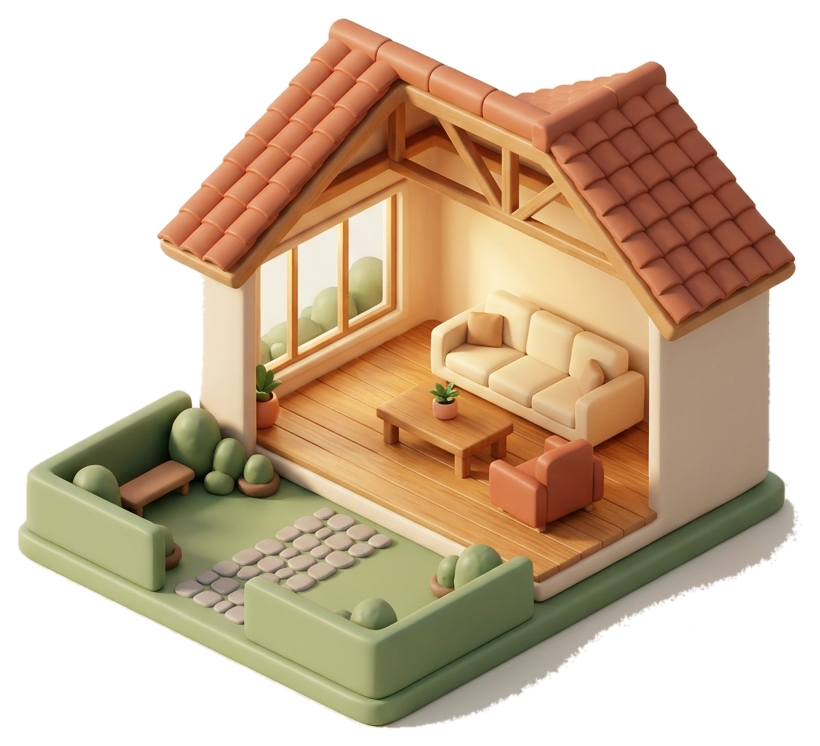
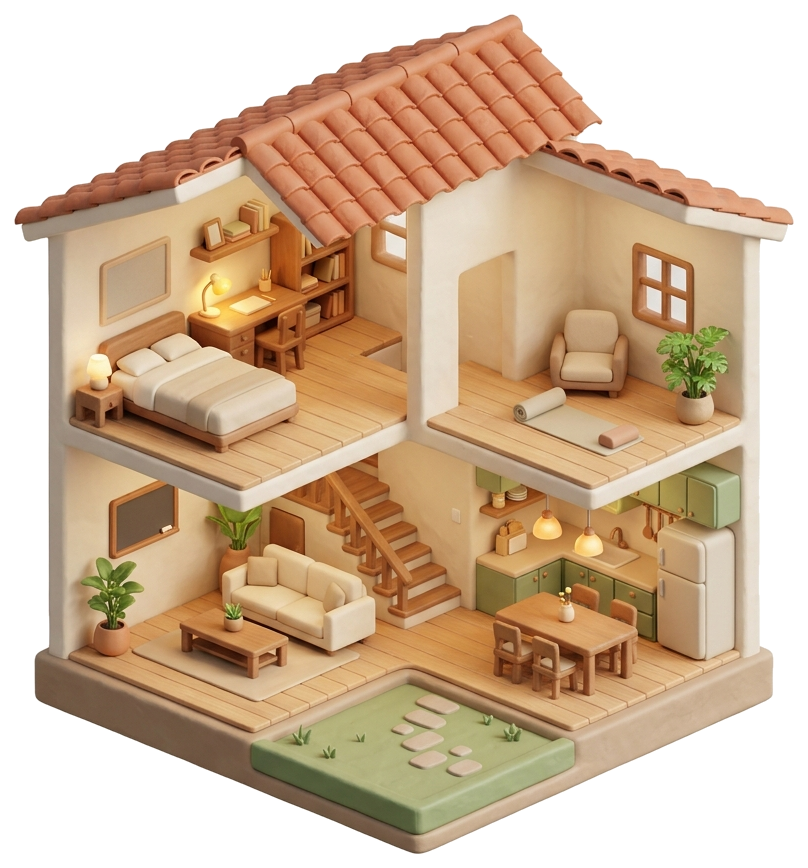
feat: multi-room 2.5D clay house hero with zero shadow residue and no cursor interaction

diff --git a/src/components/LoginView.tsx b/src/components/LoginView.tsx
@@ -1,6 +1,6 @@
 "use client";
 
-import { useEffect, useRef, useState } from "react";
+import { useEffect, useState } from "react";
 import { AnimatePresence, motion } from "framer-motion";
 import {
   ArrowRight,
@@ -24,10 +24,6 @@ interface LoginViewProps {
 export default function LoginView({ onAuthenticated }: LoginViewProps) {
   const [modalOpen, setModalOpen] = useState(false);
   const [mode, setMode] = useState<"ENTER" | "CREATE" | "RECOVER">("ENTER");
-
-  // Interactive 3D tilt for the floating house diorama
-  const houseRef = useRef<HTMLDivElement>(null);
-  const [houseTilt, setHouseTilt] = useState({ rotateX: 0, rotateY: 0 });
 
   // Enter House (ONLY House Name/Key + Room Key — key identifies the member automatically!)
   const [houseIdentifier, setHouseIdentifier] = useState("");
@@ -63,18 +59,6 @@ export default function LoginView({ onAuthenticated }: LoginViewProps) {
     window.addEventListener("keydown", onKeyDown);
     return () => window.removeEventListener("keydown", onKeyDown);
   }, [modalOpen]);
-
-  function handleHouseMouseMove(e: React.MouseEvent<HTMLDivElement>) {
-    const el = houseRef.current;
-    if (!el) return;
-    const rect = el.getBoundingClientRect();
-    const px = (e.clientX - rect.left) / rect.width;
-    const py = (e.clientY - rect.top) / rect.height;
-    setHouseTilt({
-      rotateY: (px - 0.5) * 14,
-      rotateX: (0.5 - py) * 12,
-    });
-  }
 
   async function handleEnterHouse(e: React.FormEvent) {
     e.preventDefault();
@@ -340,71 +324,28 @@ export default function LoginView({ onAuthenticated }: LoginViewProps) {
             </motion.div>
           </div>
 
-          {/* Right Column: Borderless Floating 3D House Centerpiece (NO square card!) */}
+          {/* Right Column: Borderless Static 3D Multi-Room House Centerpiece (zero cursor interaction, zero bottom residue) */}
           <motion.div
-            initial={{ opacity: 0, scale: 0.92, y: 16 }}
+            initial={{ opacity: 0, scale: 0.94, y: 12 }}
             animate={{ opacity: 1, scale: 1, y: 0 }}
-            transition={{ delay: 0.1, type: "spring", stiffness: 180, damping: 20 }}
-            className="relative flex flex-col items-center justify-center lg:col-span-6"
-            style={{ perspective: 1200 }}
+            transition={{ delay: 0.08, type: "spring", stiffness: 180, damping: 22 }}
+            className="pointer-events-none relative flex items-center justify-center lg:col-span-6"
           >
-            {/* Soft warm radial aura behind the house to blend with page background */}
+            {/* Soft warm radial aura blending the 3D house into the page background */}
             <div
-              className="pointer-events-none absolute inset-6 -z-10 rounded-full blur-3xl"
+              className="pointer-events-none absolute inset-4 -z-10 rounded-full blur-3xl"
               style={{
                 background:
-                  "radial-gradient(circle, rgba(255, 241, 224, 0.85) 0%, rgba(244, 198, 168, 0.25) 55%, transparent 75%)",
+                  "radial-gradient(circle, rgba(255, 245, 232, 0.85) 0%, rgba(244, 198, 168, 0.22) 58%, transparent 78%)",
               }}
             />
 
-            <div
-              ref={houseRef}
-              onMouseMove={handleHouseMouseMove}
-              onMouseLeave={() => setHouseTilt({ rotateX: 0, rotateY: 0 })}
-              className="relative flex w-full max-w-[560px] flex-col items-center cursor-pointer"
-              onClick={() => openModal("ENTER")}
-              title="Click to enter your digital house"
-            >
-              <motion.div
-                animate={{
-                  rotateX: houseTilt.rotateX,
-                  rotateY: houseTilt.rotateY,
-                  y: [0, -10, 0],
-                }}
-                transition={{
-                  rotateX: { type: "spring", stiffness: 260, damping: 22 },
-                  rotateY: { type: "spring", stiffness: 260, damping: 22 },
-                  y: { duration: 5.5, repeat: Infinity, ease: "easeInOut" },
-                }}
-                style={{ transformStyle: "preserve-3d" }}
-                className="relative w-full"
-              >
-                {/* eslint-disable-next-line @next/next/no-img-element */}
-                <img
-                  src="/assets/house-hero-cutout.png"
-                  alt="Domus 3D Digital House"
-                  className="mx-auto w-full max-w-[540px] select-none object-contain"
-                  style={{
-                    filter:
-                      "drop-shadow(0 30px 38px rgba(96, 62, 42, 0.22)) drop-shadow(0 8px 14px rgba(96, 62, 42, 0.12))",
-                  }}
-                />
-              </motion.div>
-
-              {/* Soft floating 3D ground shadow that breathes with the house */}
-              <motion.div
-                animate={{
-                  scaleX: [1, 0.92, 1],
-                  opacity: [0.32, 0.2, 0.32],
-                }}
-                transition={{ duration: 5.5, repeat: Infinity, ease: "easeInOut" }}
-                className="-mt-4 h-7 w-[68%] rounded-full blur-xl"
-                style={{
-                  background:
-                    "radial-gradient(ellipse, rgba(78, 50, 34, 0.55) 0%, transparent 72%)",
-                }}
-              />
-            </div>
+            {/* eslint-disable-next-line @next/next/no-img-element */}
+            <img
+              src="/assets/house-hero-cutout.png"
+              alt="Domus Multi-Room 3D Digital House"
+              className="mx-auto w-full max-w-[540px] select-none object-contain"
+            />
           </motion.div>
         </div>
       </main>
